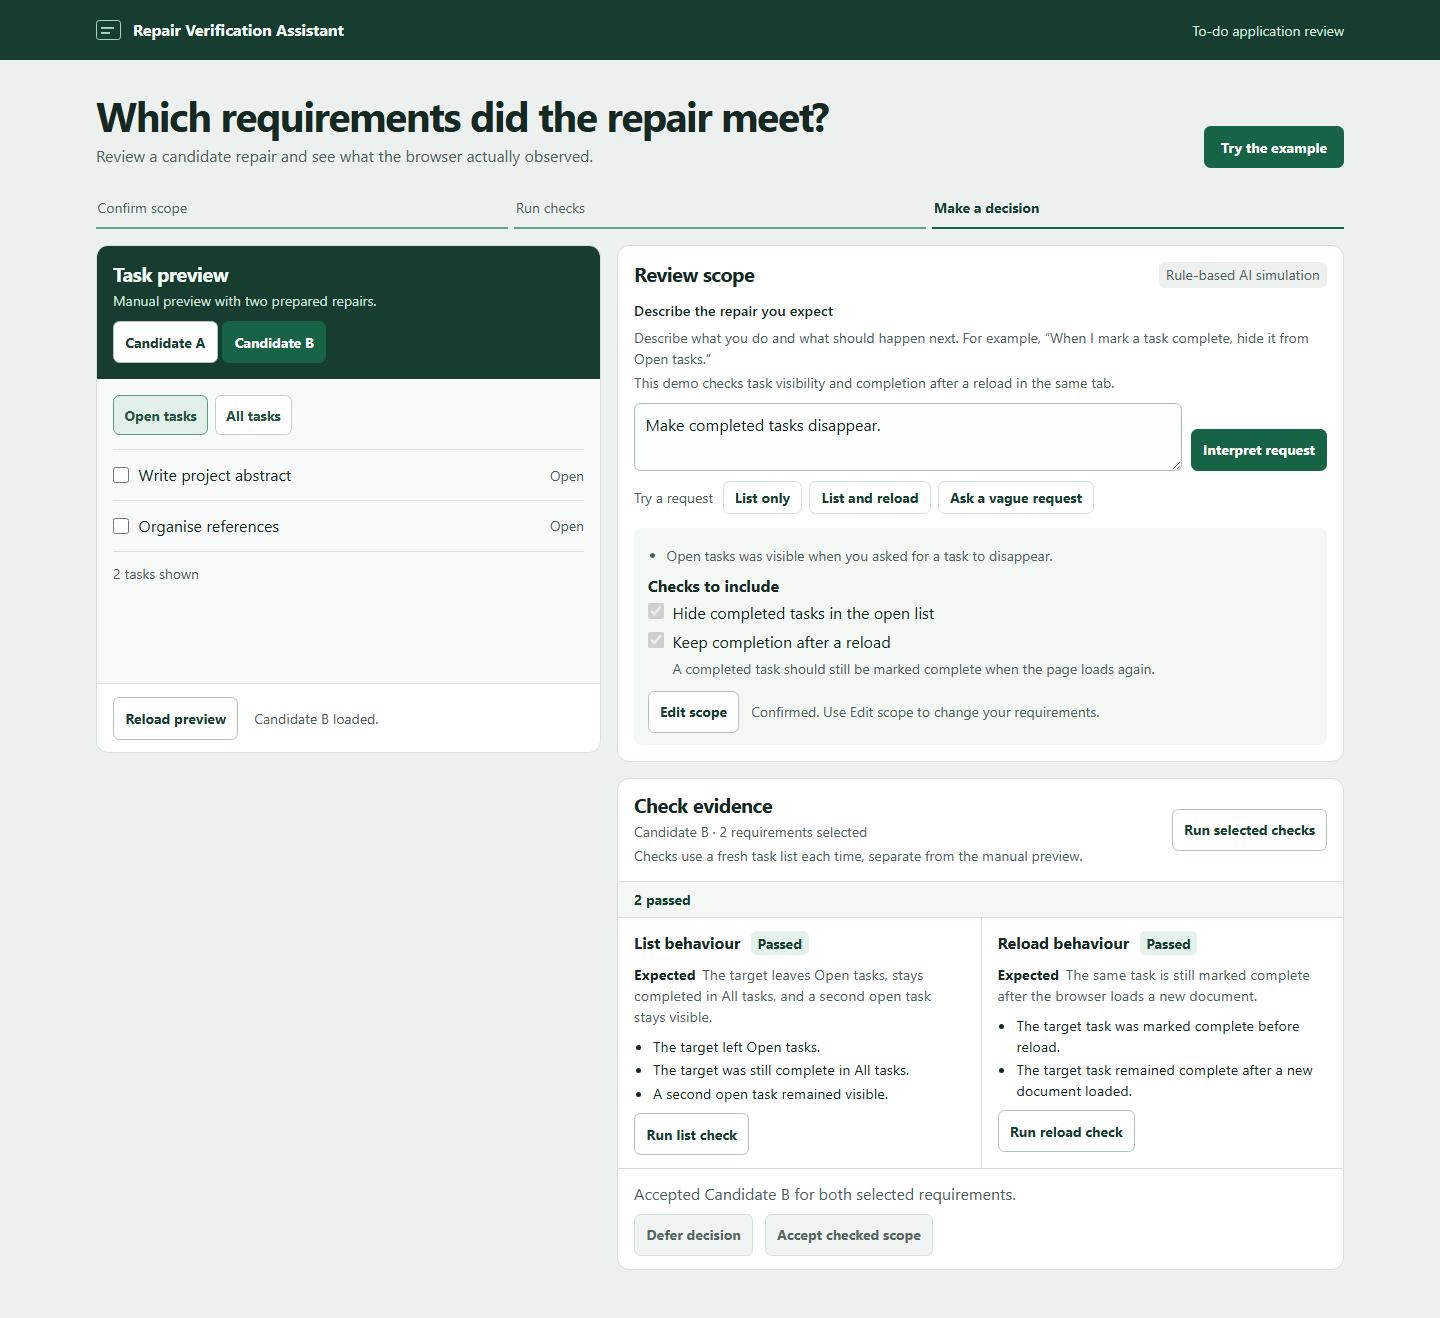
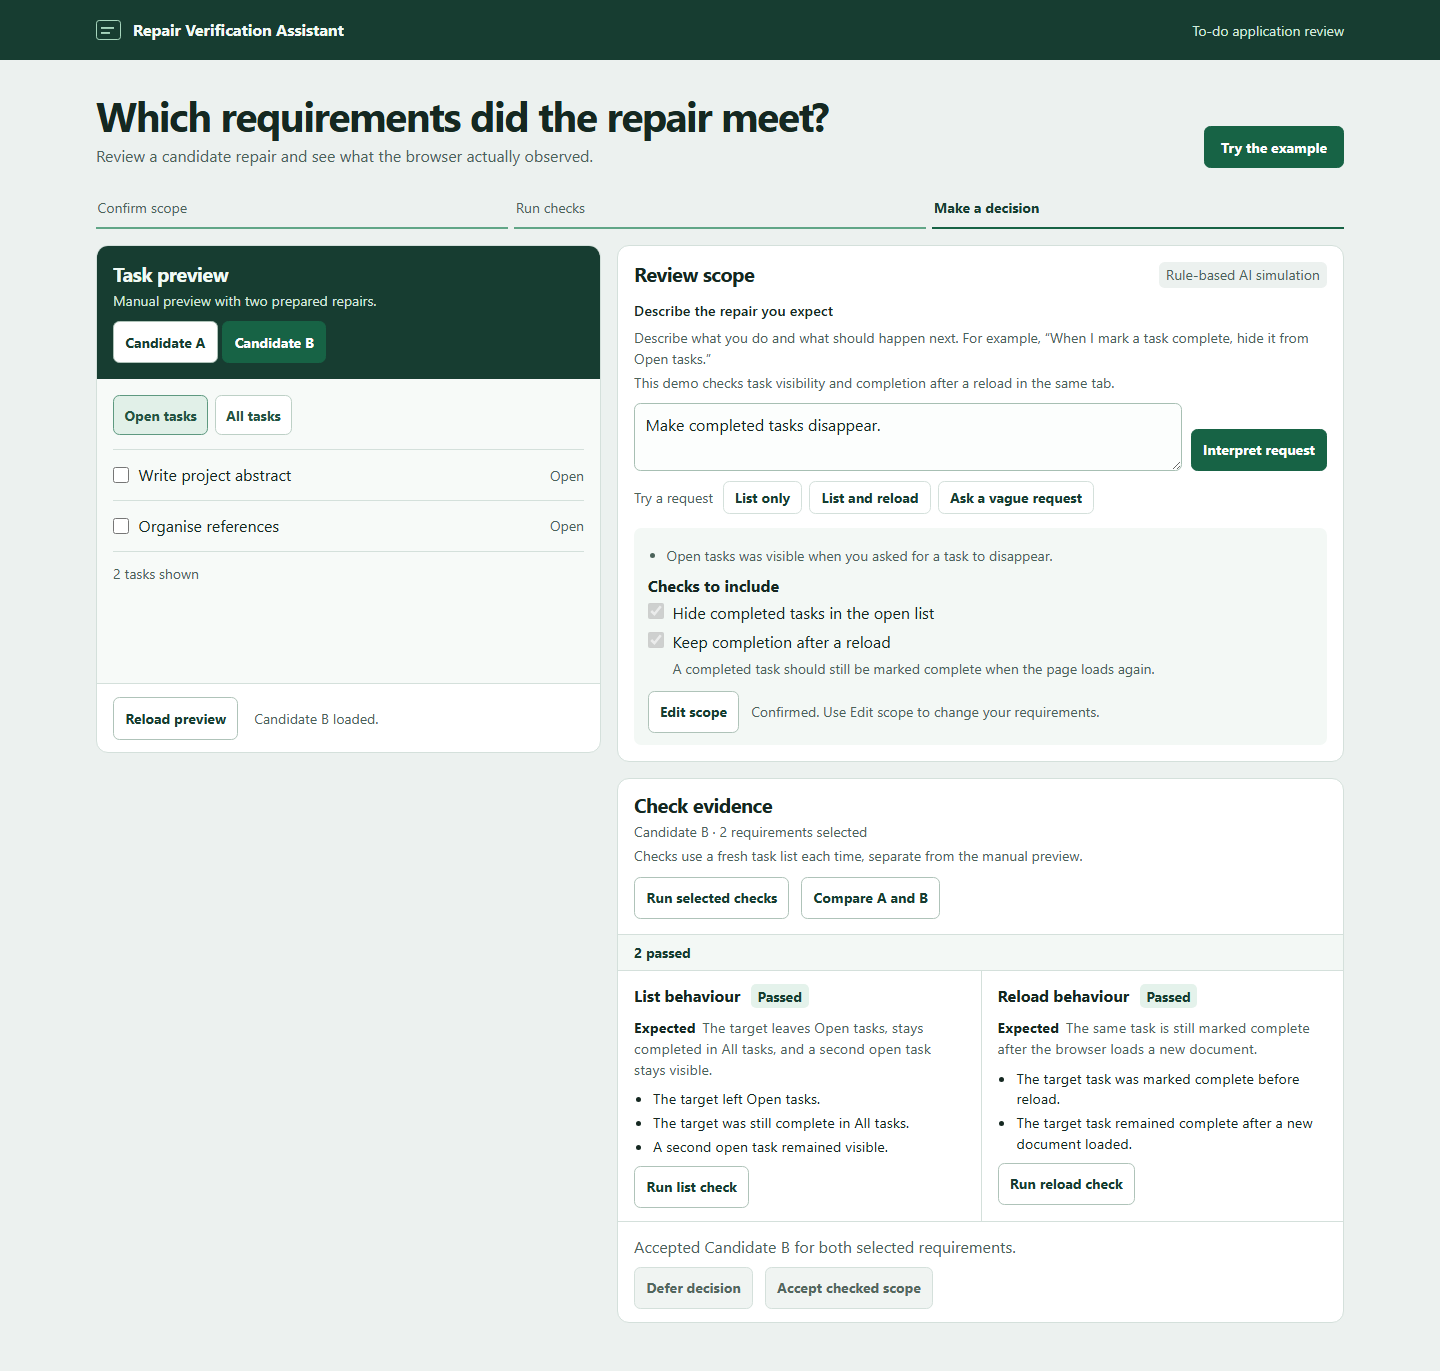
Stage 04: Compare candidate evidence on one confirmed scope

diff --git a/web/index.html b/web/index.html
@@ -95,9 +95,21 @@
               <p id="evidence-context">Candidate A · Confirm the scope to run checks.</p>
               <p class="check-note">Checks use a fresh task list each time, separate from the manual preview.</p>
             </div>
-            <button type="button" id="run-selected" disabled>Run selected checks</button>
+            <div class="decision-actions">
+              <button type="button" id="run-selected" disabled>Run selected checks</button>
+              <button type="button" id="compare-candidates" disabled>Compare A and B</button>
+            </div>
           </header>
           <p id="check-summary" class="check-summary" role="status" hidden></p>
+          <p id="comparison-progress" class="comparison-progress" role="status"></p>
+          <div id="comparison" class="comparison" hidden>
+            <table aria-label="Candidate comparison">
+              <caption>Same requirements, two candidates</caption>
+              <thead><tr><th scope="col">Requirement</th><th scope="col">Candidate A</th><th scope="col">Candidate B</th></tr></thead>
+              <tbody></tbody>
+            </table>
+            <p>Open a result to see the browser observations. Switch candidates to make a decision.</p>
+          </div>
           <div class="check-list">
             <article data-check="filter" aria-labelledby="filter-heading">
               <div class="check-heading">

diff --git a/web/workbench.css b/web/workbench.css
@@ -186,6 +186,17 @@ input[type="checkbox"] { flex: 0 0 auto; margin: 0; width: 1rem; height: 1rem; a
   font-size: .875rem;
   font-weight: 650;
 }
+.comparison-progress { margin: 0 1rem; color: var(--muted); font-size: .875rem; }
+.comparison-progress:not(:empty) { padding-block: .5rem; }
+.comparison { padding: 0 1rem .8rem; min-width: 0; }
+.comparison table { width: 100%; border-collapse: collapse; table-layout: fixed; font-size: .875rem; }
+.comparison caption { text-align: left; font-weight: 660; margin-block-end: .35rem; }
+.comparison th, .comparison td { padding: .45rem .35rem; text-align: left; vertical-align: top; border-block-start: 1px solid var(--line); overflow-wrap: anywhere; }
+.comparison th:first-child { width: 43%; }
+.comparison small { display: block; font-weight: 500; color: var(--muted); margin-block-start: .2rem; }
+.comparison summary { cursor: pointer; }
+.comparison details ul { margin: .4rem 0 0; padding-inline-start: .95rem; }
+.comparison > p { margin-block-start: .45rem; color: var(--muted); font-size: .875rem; }
 .check-list { display: grid; grid-template-columns: repeat(2, minmax(0, 1fr)); border-block: 1px solid var(--line); }
 [data-check] { min-width: 0; display: grid; align-content: start; align-items: start; gap: .55rem; padding: .8rem 1rem; }
 [data-check] + [data-check] { border-inline-start: 1px solid var(--line); }

diff --git a/README.md b/README.md
@@ -1,6 +1,6 @@
 # Repair Verification Assistant
 
-Prose word count **542**. Headings and link text are included. Code blocks and setup commands are excluded.
+Prose word count **613**. Headings and link text are included. Code blocks and setup commands are excluded.
 
 A review workbench for a beginner with a candidate to-do app repair. Confirm the requirements, inspect browser evidence and decide what to accept.
 
@@ -19,6 +19,8 @@ node serve.mjs
 ```
 
 Select **Try the example** to load Candidate A and fill in both requirements. Confirm the scope and run both checks. Review the evidence and defer. Switch to Candidate B, run both checks and accept the checked scope. You can also write your own request or reproduce the behaviour in the manual preview.
+
+Select **Compare A and B** after confirming scope to run both candidates against the same requirements. Expand a result for observations. Switch to the candidate you want to review to use its own comparison results.
 
 ## Technology and checks
 
@@ -43,6 +45,7 @@ The browser suite covers both candidates, manual reload, scope edits, context-se
 | Require passing evidence for acceptance and allow resuming a deferred review. | This is a provisional implementation choice. Checks cover failed, deferred, resumed and accepted decisions. |
 | Add a first-run example and an evidence summary. | The student asked for clearer guidance and an explanation of reload. The example fills in the two requirements. A browser test follows the progress indicator from confirmation to the split outcome. |
 | Add request guidance and three selectable examples. | The student asked what belongs in the input. The examples demonstrate list-only scope, both checks and a request that needs clarification. Browser tests inspect each response and check that earlier evidence clears when the request changes. |
+| Add a side-by-side comparison. | Rerunning the same requirements makes it possible to see which behaviour improved. Browser tests verify that the comparison reuses the checks, keeps evidence attached to each candidate and clears when scope changes. |
 
 ## Authorship and AI assistance
 

diff --git a/docs/architecture.md b/docs/architecture.md
@@ -39,4 +39,5 @@ flowchart TB
 - **Simulated.** The request interpreter uses bounded rules. It considers the request, the active task view and whether the reviewer used manual reload. The candidate repairs are fixed examples.
 - **Observed evidence.** The list check measures membership and completion in the rendered task list. The reload check compares the state of the target task across two actual browser documents. Check frames use separate storage keys and remove their test state on completion.
 - **Review scope.** Session storage supports reload of the current tab. Visual presentation can be assessed using the manual preview. Acceptance covers the selected requirements and current candidate.
+- **Candidate comparison.** The runner executes each confirmed check for both candidates. The workbench keeps the observations under their respective candidates and clears the comparison when the reviewer changes scope.
 - **Planned option.** A model could propose check IDs and clarifying questions. The browser runner would still derive evidence from the candidate application.

diff --git a/docs/walkthrough.md b/docs/walkthrough.md
@@ -20,6 +20,10 @@ These captures come from the Playwright browser suite. Use the workbench and the
 
 ![Candidate B with both checks passing and acceptance confirmed](evidence/candidate-b-accepted.png)
 
+With both requirements confirmed, **Compare A and B** runs the same checks on both candidates. Expand the failed reload result to see what the browser observed. Switching to Candidate B presents its own results for the acceptance decision.
+
+![Both candidates pass the list check and only Candidate B passes the reload check](evidence/candidate-comparison.png)
+
 ## The reviewer corrects the scope
 
 1. Start with both checks in scope. Run the list check, then select **Edit scope**.
